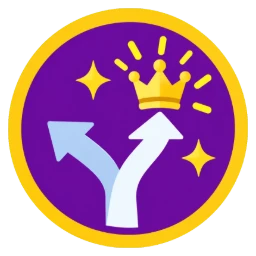
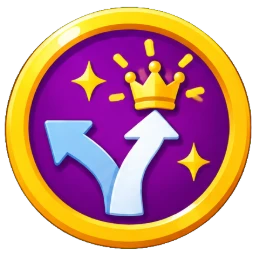
バッジ5つ（どっち？とボス戦）の絵を、まとめて作った1枚から切り分けて置く
先生が ChatGPT で5つを1枚に描いたもの（光沢・立体の絵柄で今の12個とそろう）。
tools/badgesheet.cjs で緑の背景を抜き、256px の webp に切った。
平たい絵柄だった dochi-perfect も、これで差し替えた。
残り4つを COMMON_BADGE_ART と sw-core の SHARED に足し、絵待ちの一覧を空にした。

Claude-Session: https://claude.ai/code/session_019ry4zEo949hjErRyEfvrYM

diff --git a/shared/js/lib/badges.js b/shared/js/lib/badges.js
@@ -9,7 +9,7 @@ import { normalizeBoss, normalizeBossFlawless } from './boss.js';
 // 絵のあるバッジ。共通の12個は shared/images/badges/<id>.webp（id と同じ名前）。
 // 「どっち？」とボス戦の5つ（dochi-perfect・dochi-combo-10・boss-first・boss-all・boss-flawless）は絵がまだ無く、記号の表示。
 // 絵を置くときは、ここの配列に5つの id を足し、shared/sw-core.js の SHARED に './images/badges/<id>.webp' の行を足す。
-export const COMMON_BADGE_ART = Object.freeze(['first-answer', 'correct-10', 'correct-100', 'streak-3', 'streak-7', 'streak-30', 'level-5', 'level-10', 'challenge-8', 'exam-first', 'exam-70', 'exam-90', 'dochi-perfect']);
+export const COMMON_BADGE_ART = Object.freeze(['first-answer', 'correct-10', 'correct-100', 'streak-3', 'streak-7', 'streak-30', 'level-5', 'level-10', 'challenge-8', 'exam-first', 'exam-70', 'exam-90', 'dochi-perfect', 'dochi-combo-10', 'boss-first', 'boss-all', 'boss-flawless']);
 // 章の制覇バッジを取る星の数（ステージの最大＝完全クリア）。
 export const CHAPTER_STARS = 3;
 const SAFE_NAME = /^[A-Za-z0-9_-]+$/;

diff --git a/shared/sw-core.js b/shared/sw-core.js
@@ -29,6 +29,10 @@ const SHARED = [
   '../shared/images/badges/exam-70.webp',
   '../shared/images/badges/exam-90.webp',
   '../shared/images/badges/dochi-perfect.webp',
+  '../shared/images/badges/dochi-combo-10.webp',
+  '../shared/images/badges/boss-first.webp',
+  '../shared/images/badges/boss-all.webp',
+  '../shared/images/badges/boss-flawless.webp',
   '../shared/images/characters/shiba-hello.webp',
   '../shared/images/characters/shiba-banzai.webp',
   '../shared/images/characters/shiba-clap.webp',
